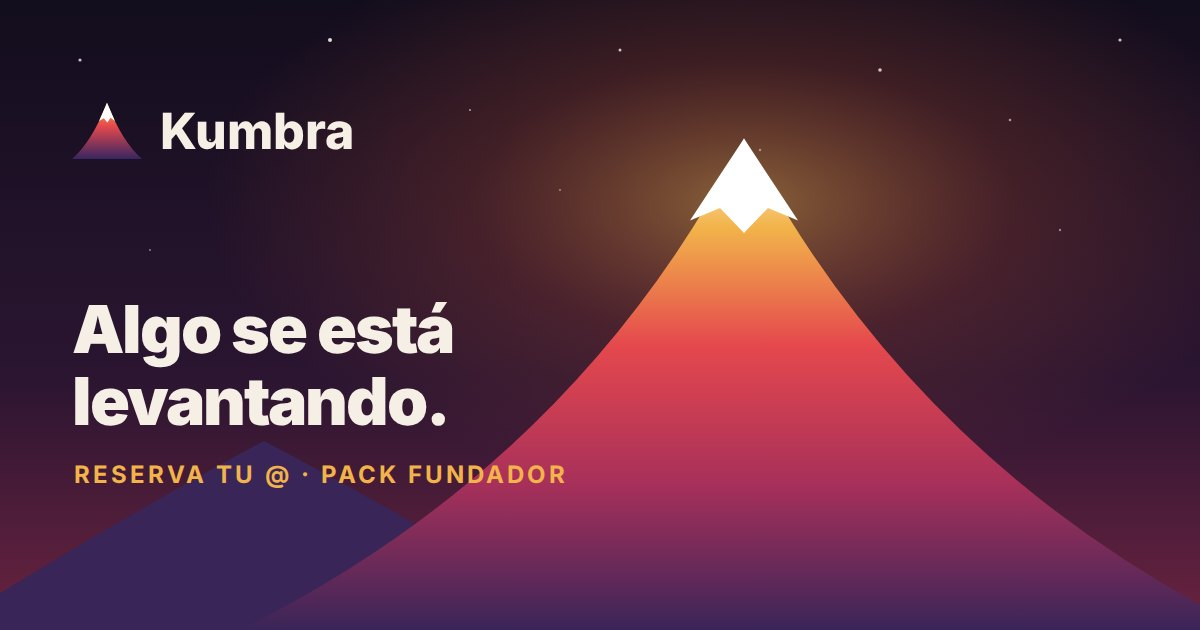
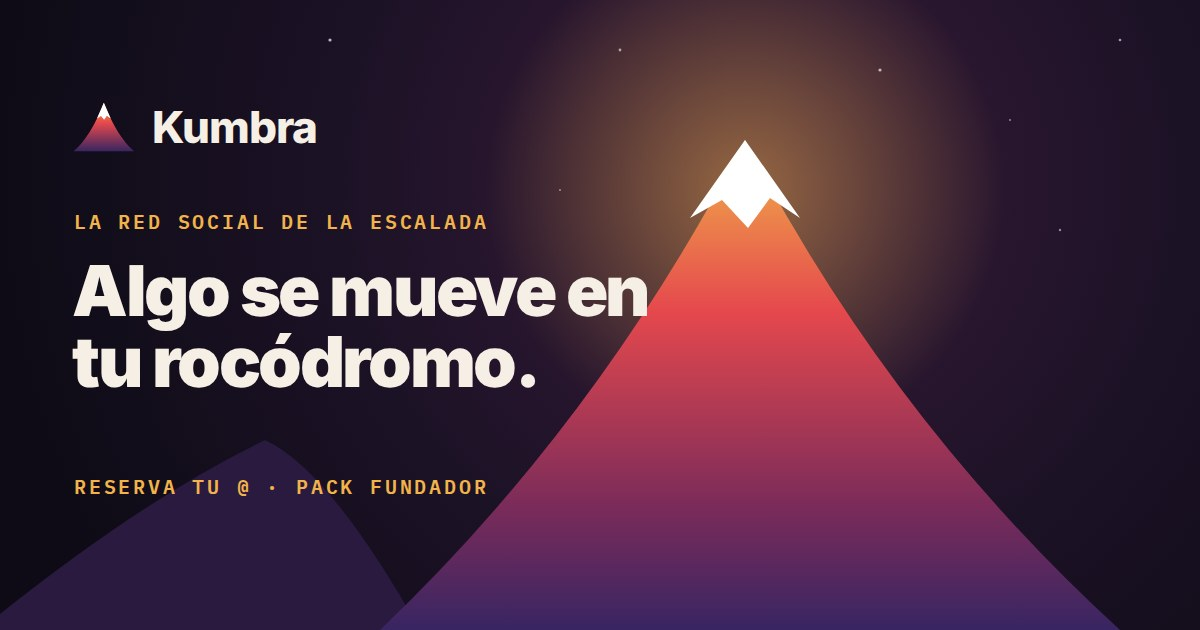
Kumbra: «Algo se mueve en tu rocódromo», pack Fundador compacto y recompensa por invitar
- Cabecera: «La red social de la escalada» y el título «Algo se mueve en tu
  rocódromo.»; frases nuevas que hablan del rocódromo y de los amigos.
  Miniatura para compartir (og.jpg) y metadatos al día.
- Al reservar, el título se queda arriba en pequeño en vez de desaparecer.
- Pack Fundador más corto: perfil con @, insignia y fondo Cumbre; «Precio
  Fundador en Pro» y «Entras antes»; el resto en una línea de detalles.
- Trae a 3 amigos: sigue siendo sorpresa, ahora «la recompensa que solo tiene
  quien invita» (la puede conseguir cualquiera que invite, también en la app).
  Email de bienvenida y mensaje de WhatsApp con los mismos textos.

Claude-Session: https://claude.ai/code/session_011Nguy6kvEtjocCLexhxfN6

diff --git a/kumbra/index.html b/kumbra/index.html
@@ -4,15 +4,15 @@
   <meta charset="utf-8">
   <meta name="viewport" content="width=device-width, initial-scale=1, viewport-fit=cover">
   <title>Kumbra</title>
-  <meta name="description" content="Algo se está levantando en la escalada. Reserva tu nombre antes que nadie.">
-  <meta property="og:title" content="Kumbra · Algo se está levantando">
-  <meta property="og:description" content="Una app de escalada. Pronto. Reserva tu @ antes que nadie.">
+  <meta name="description" content="Algo se mueve en tu rocódromo. La red social de la escalada, pronto en Madrid. Reserva tu nombre antes que nadie.">
+  <meta property="og:title" content="Kumbra · Algo se mueve en tu rocódromo">
+  <meta property="og:description" content="La red social de la escalada. Madrid, pronto. Reserva tu @ antes que nadie.">
   <meta property="og:type" content="website">
   <meta property="og:url" content="https://www.axclimb.com/kumbra">
   <meta property="og:image" content="https://www.axclimb.com/kumbra/og.jpg">
   <meta property="og:image:width" content="1200">
   <meta property="og:image:height" content="630">
-  <meta property="og:image:alt" content="Kumbra: una montaña de noche y el texto «Algo se está levantando»">
+  <meta property="og:image:alt" content="Kumbra: una montaña de noche y el texto «Algo se mueve en tu rocódromo»">
   <meta name="twitter:card" content="summary_large_image">
   <link rel="apple-touch-icon" href="/kumbra/apple-touch-icon.png">
   <meta name="theme-color" content="#0E0B16">
@@ -64,11 +64,15 @@ header { display: flex; justify-content: space-between; align-items: center; }
 .logo svg { width: 24px; height: 20px; }
 .mono { font: 500 11px/1.4 var(--mono); letter-spacing: .16em; text-transform: uppercase; color: var(--dim); }
 
-.title { align-self: start; text-align: center; margin-top: 6vh; pointer-events: none !important; transition: opacity .4s; }
+.title { align-self: start; text-align: center; margin-top: 6vh; pointer-events: none !important; transition: opacity .4s, margin .6s; }
+/* After you reserve: the title stays at the top, smaller, so the panel and your light have room. */
+.title.small { margin-top: 1.5vh; }
+.title.small .kicker, .title.small .whisper { display: none; }
+.title.small h1 { font-size: clamp(22px, 6.2vw, 38px); max-width: 22ch; }
 .kicker { display: inline-flex; gap: 10px; align-items: center; }
 .kicker i { width: 6px; height: 6px; border-radius: 50%; background: var(--coral); box-shadow: 0 0 12px var(--coral); animation: blink 2.4s ease-in-out infinite; }
 @keyframes blink { 50% { opacity: .3; } }
-h1 { margin: 14px auto 0; padding-bottom: .08em; max-width: 13ch; font: 900 clamp(40px, 11.5vw, 96px)/1 var(--sans); letter-spacing: -0.045em; text-wrap: balance; }
+h1 { margin: 14px auto 0; padding-bottom: .08em; max-width: 13ch; font: 900 clamp(40px, 11.5vw, 96px)/1 var(--sans); letter-spacing: -0.045em; text-wrap: balance; transition: font-size .6s cubic-bezier(.2,.8,.2,1); }
 h1 span { display: inline-block; padding-bottom: .12em; margin-bottom: -.12em; opacity: 0; transform: translateY(18px); filter: blur(8px); animation: rise 1.1s cubic-bezier(.2,.8,.2,1) forwards; }
 h1.in span { animation: none; opacity: 1; transform: none; filter: none; }
 @keyframes rise { to { opacity: 1; transform: none; filter: none; } }
@@ -190,13 +194,15 @@ body.exploring .title, body.exploring .draghint { opacity: 0 !important; pointer
 .pvmeta { display: block; font-size: 11px; color: var(--dim); }
 .pvmeta b { color: var(--ink); font-weight: 800; }
 .call { position: absolute; z-index: 2; padding: 5px 9px; border-radius: 99px; background: rgba(245,239,230,.92); color: #1A1324; font: 800 11px/1 var(--sans); white-space: nowrap; box-shadow: 0 6px 16px -6px rgba(0,0,0,.6); }
-.perks4 { display: grid; grid-template-columns: repeat(auto-fill, minmax(96px, 1fr)); gap: 8px; }
-.perks4 div { display: grid; justify-items: center; gap: 7px; text-align: center; padding: 12px 4px 10px; border-radius: 16px; background: rgba(245,239,230,.05); box-shadow: inset 0 0 0 1px rgba(245,239,230,.08); }
-.perks4 svg { width: 40px; height: 40px; }
-.perks4 b { font: 800 11.5px/1.15 var(--sans); }
+.perks2 { display: grid; gap: 8px; }
+.perks2 > div { display: grid; grid-template-columns: 40px minmax(0, 1fr); gap: 12px; align-items: center; padding: 10px 12px; border-radius: 16px; background: rgba(245,239,230,.05); box-shadow: inset 0 0 0 1px rgba(245,239,230,.08); text-align: left; }
+.perks2 svg { width: 40px; height: 40px; }
+.perks2 b { display: block; font: 800 14px/1.2 var(--sans); }
+.perks2 small { display: block; color: var(--dim); font-size: 12.5px; margin-top: 2px; }
+.extras { margin: 10px 2px 0; color: var(--dim); font-size: 12.5px; line-height: 1.45; text-align: left; }
 .mystery { display: grid; grid-template-columns: 48px minmax(0, 1fr); gap: 12px; align-items: center; margin-top: 16px; padding: 12px 14px; border-radius: 18px; background: repeating-linear-gradient(135deg, rgba(242,180,74,.08) 0 7px, transparent 7px 14px); box-shadow: inset 0 0 0 1px rgba(242,180,74,.4); text-align: left; }
-.mystery .q { width: 46px; height: 46px; border-radius: 50%; display: grid; place-items: center; font: 900 22px/1 var(--sans); color: var(--amber); box-shadow: inset 0 0 0 2px rgba(242,180,74,.7); animation: qpulse 2.4s ease-in-out infinite; }
 @keyframes qpulse { 50% { box-shadow: inset 0 0 0 2px rgba(242,180,74,.25), 0 0 18px rgba(242,180,74,.35); } }
+.mystery .q { width: 46px; height: 46px; border-radius: 50%; display: grid; place-items: center; font: 900 22px/1 var(--sans); color: var(--amber); box-shadow: inset 0 0 0 2px rgba(242,180,74,.7); animation: qpulse 2.4s ease-in-out infinite; }
 .mystery b { font: 800 14.5px/1.2 var(--sans); }
 .mystery small { display: block; color: var(--dim); font-size: 12.5px; margin-top: 2px; }
 .mystery .progress { margin-top: 8px; }
@@ -228,8 +234,8 @@ body.exploring .title, body.exploring .draghint { opacity: 0 !important; pointer
     </header>
 
     <section class="title">
-      <span class="mono kicker"><i></i>Una app de escalada</span>
-      <h1 id="h1">Algo se está levantando.</h1>
+      <span class="mono kicker"><i></i>La red social de la escalada</span>
+      <h1 id="h1">Algo se mueve en tu rocódromo.</h1>
       <p class="whisper" id="whisper">&nbsp;</p>
     </section>
 
@@ -257,7 +263,7 @@ body.exploring .title, body.exploring .draghint { opacity: 0 !important; pointer
           <div class="share"><code id="share-link"></code><button type="button" id="copy">Copiar</button></div>
           <div class="row2"><a class="wa" id="whatsapp" href="#" target="_blank" rel="noopener">WhatsApp</a><button class="ghost" type="button" id="again">Ver la montaña</button></div>
           <button class="linkish" type="button" data-explore>Busca a tus amigos en la montaña</button>
-          <div class="mystery"><span class="q">?</span><div><b>Trae a 3 amigos con tu enlace</b><small>Y descubre lo que nadie más tendrá.</small><div class="progress"><i></i><i></i><i></i></div></div></div>
+          <div class="mystery"><span class="q">?</span><div><b>Trae a 3 amigos con tu enlace</b><small>Y descubre la recompensa que solo tiene quien invita.</small><div class="progress"><i></i><i></i><i></i></div></div></div>
           <p class="note" id="preview-note" hidden>Vista previa: no se ha enviado nada.</p>
           <button class="minibar" type="button" id="unfold"><span class="badge">▲</span><b id="mini-name">@tú</b><span class="mb-r">Invitar y compartir <svg viewBox="0 0 24 24" width="16" height="16" fill="none" stroke="currentColor" stroke-width="2.4" stroke-linecap="round"><path d="M6 15l6-6 6 6"/></svg></span></button>
         </div>
@@ -285,16 +291,13 @@ body.exploring .title, body.exploring .draghint { opacity: 0 !important; pointer
       <span class="call" style="left:96px;top:120px">Insignia</span>
     </div>
     <div class="group"><span class="mono">Y solo para ti</span>
-      <div class="perks4">
-        <div><svg viewBox="0 0 54 54"><circle cx="27" cy="27" r="22" fill="none" stroke="#F2B44A" stroke-width="3" stroke-dasharray="104 200" stroke-linecap="round" transform="rotate(-90 27 27)"/><path d="M22 18l14 9-14 9z" fill="#F5EFE6"/></svg><b>Entras antes</b></div>
-        <div><svg viewBox="0 0 54 54"><defs><linearGradient id="pk3" x1="0" y1="0" x2="0" y2="1"><stop offset="0" stop-color="#2B1531"/><stop offset="1" stop-color="#0E0B16"/></linearGradient><linearGradient id="pk4" x1="0" y1="0" x2="0" y2="1"><stop offset="0" stop-color="#FFF4E2"/><stop offset=".45" stop-color="#E8622D"/><stop offset="1" stop-color="#382562"/></linearGradient></defs><rect x="4" y="4" width="46" height="46" rx="12" fill="url(#pk3)" stroke="rgba(242,180,74,.6)"/><path d="M10 42 Q21 34 27 13 Q33 34 44 42Z" fill="url(#pk4)"/></svg><b>Icono secreto</b></div>
-        <div><svg viewBox="0 0 54 54"><circle cx="20" cy="27" r="14" fill="#3A2558"/><circle cx="34" cy="27" r="14" fill="#F2734A"/><circle cx="27" cy="16" r="10" fill="#F2B44A"/></svg><b>Paleta Atardecer</b></div>
-        <div><svg viewBox="0 0 54 54"><rect x="3" y="15" width="38" height="24" rx="12" fill="none" stroke="#F5EFE6" stroke-opacity=".6" stroke-width="2"/><text x="22" y="31.5" text-anchor="middle" font-family="Inter,sans-serif" font-weight="900" font-size="11" fill="#F5EFE6">PRO</text><circle cx="41" cy="14" r="11" fill="#F2B44A"/><text x="41" y="18" text-anchor="middle" font-family="Inter,sans-serif" font-weight="900" font-size="11" fill="#3A2108">%</text></svg><b>Descuento en Pro</b></div>
-        <div><svg viewBox="0 0 54 54"><circle cx="27" cy="27" r="22" fill="#E8B53A"/><circle cx="27" cy="27" r="17" fill="none" stroke="#fff" stroke-opacity=".5" stroke-width="1.5"/><path d="M17 34l10-17 10 17z" fill="#3A2108"/></svg><b>Logro Fundador</b></div>
-        <div><svg viewBox="0 0 54 54"><defs><linearGradient id="pk5" x1="0" y1="0" x2="0" y2="1"><stop offset="0" stop-color="#FFC20E"/><stop offset=".38" stop-color="#FF48B0"/><stop offset=".72" stop-color="#3255A4"/><stop offset="1" stop-color="#1B1830"/></linearGradient></defs><circle cx="27" cy="27" r="22" fill="url(#pk5)"/><text x="27" y="32.5" text-anchor="middle" font-family="Inter,sans-serif" font-weight="900" font-size="15" fill="#F4EFE4">K</text></svg><b>Avatares Fundador</b></div>
+      <div class="perks2">
+        <div><svg viewBox="0 0 54 54"><rect x="3" y="15" width="38" height="24" rx="12" fill="none" stroke="#F5EFE6" stroke-opacity=".6" stroke-width="2"/><text x="22" y="31.5" text-anchor="middle" font-family="Inter,sans-serif" font-weight="900" font-size="11" fill="#F5EFE6">PRO</text><circle cx="41" cy="14" r="11" fill="#F2B44A"/><text x="41" y="18" text-anchor="middle" font-family="Inter,sans-serif" font-weight="900" font-size="11" fill="#3A2108">%</text></svg><span><b>Precio Fundador en Pro</b><small>Para siempre, si te suscribes en el lanzamiento.</small></span></div>
+        <div><svg viewBox="0 0 54 54"><circle cx="27" cy="27" r="22" fill="none" stroke="#F2B44A" stroke-width="3" stroke-dasharray="104 200" stroke-linecap="round" transform="rotate(-90 27 27)"/><path d="M22 18l14 9-14 9z" fill="#F5EFE6"/></svg><span><b>Entras antes</b><small>La beta privada, antes que nadie.</small></span></div>
       </div>
+      <p class="extras">Y detalles que solo tendrán los fundadores: icono secreto, paleta Atardecer, avatares y logro Fundador.</p>
     </div>
-    <div class="mystery"><span class="q">?</span><div><b>Trae a 3 amigos</b><small>Y descubre lo que nadie más tendrá.</small></div></div>
+    <div class="mystery"><span class="q">?</span><div><b>Trae a 3 amigos con tu enlace</b><small>Y descubre la recompensa que solo tiene quien invita.</small></div></div>
     <button class="go" type="button" data-pack-close>Reservar mi nombre</button>
   </section>
 
@@ -307,7 +310,7 @@ body.exploring .title, body.exploring .draghint { opacity: 0 !important; pointer
   // ================= Words =================
   var h1 = document.getElementById("h1");
   h1.innerHTML = h1.textContent.split(" ").map(function (w, i) { return '<span style="animation-delay:' + (0.5 + i * 0.16) + 's">' + w + "</span>"; }).join(" ");
-  var WHISPERS = ["Cada bloque que encadenas se pierde. Hasta ahora.", "Tus amigos van a querer verlo.", "No es otra app de entrenamiento.", "Los primeros se quedan con su nombre.", "Lo vas a querer enseñar."];
+  var WHISPERS = ["Mira quién ha escalado hoy en tu rocódromo.", "Cada bloque que encadenas se pierde. Hasta ahora.", "Tus amigos van a querer verlo.", "Reta a tu gente y a ver quién suma más.", "Los primeros se quedan con su nombre."];
   var wEl = document.getElementById("whisper"), wi = 0;
   function whisper() { wEl.classList.add("out"); setTimeout(function () { wEl.textContent = WHISPERS[wi++ % WHISPERS.length]; wEl.classList.remove("out"); }, 600); }
   setTimeout(function () { whisper(); setInterval(whisper, 4200); }, 1700);
@@ -579,14 +582,14 @@ body.exploring .title, body.exploring .draghint { opacity: 0 !important; pointer
     document.getElementById("mini-name").textContent = "@" + v;
     [].forEach.call(document.querySelectorAll(".pvav"), function (e) { e.textContent = v.charAt(0).toUpperCase(); }); [].forEach.call(document.querySelectorAll(".pvname b"), function (e) { e.textContent = "@" + v; });
     document.getElementById("share-link").textContent = link.replace(/^https?:\/\//, "");
-    document.getElementById("whatsapp").href = "https://wa.me/?text=" + encodeURIComponent("Me he apuntado a Kumbra, una app de escalada que está a punto de salir. Si reservas tu nombre con mi enlace entras con el Pack Fundador: " + link);
+    document.getElementById("whatsapp").href = "https://wa.me/?text=" + encodeURIComponent("Me he apuntado a Kumbra, la red social de la escalada, que está a punto de salir. Si reservas tu nombre con mi enlace entras con el Pack Fundador: " + link);
     var copy = document.getElementById("copy");
     copy.onclick = function () {
       var ok = function () { copy.textContent = "Copiado"; setTimeout(function () { copy.textContent = "Copiar"; }, 1800); };
       try { navigator.clipboard.writeText(link).then(ok, selectLink); } catch (e) { selectLink(); }
     };
     document.getElementById("drag-hint").classList.add("gone");
-    var title = document.querySelector(".title"); title.style.transition = "opacity .8s"; title.style.opacity = 0; title.style.pointerEvents = "none";
+    document.querySelector(".title").classList.add("small");
     meName = v;
     if (lit) { lit.go(); loadFounders(v, preview); }
   }

diff --git a/api/kumbraWaitlist.js b/api/kumbraWaitlist.js
@@ -116,11 +116,9 @@ const PACK = [
   ["Tu @, antes que nadie", "Nadie más podrá usarlo."],
   ["Insignia Fundador", "Junto a tu nombre en el feed, tu perfil y el ranking."],
   ["Fondo de perfil «Cumbre»", "La montaña de noche como cabecera de tu perfil."],
-  ["Paleta «Atardecer»", "Los colores de esta noche para toda la app."],
-  ["Icono secreto", "La montaña de noche en tu pantalla de inicio."],
-  ["Logro «Fundador»", "Desbloqueado desde el primer día."],
-  ["Entras antes", "Beta privada antes del lanzamiento."],
-  ["Descuento en Pro", "Precio de fundador si te suscribes en el lanzamiento."],
+  ["Precio Fundador en Pro", "Para siempre, si te suscribes en el lanzamiento."],
+  ["Entras antes", "La beta privada, antes que nadie."],
+  ["Y detalles solo para fundadores", "Icono secreto, paleta Atardecer, avatares y logro Fundador."],
 ];
 
 function welcomeText(username, link) {
@@ -132,7 +130,7 @@ function welcomeText(username, link) {
     `Tu Pack Fundador:`,
     ...PACK.map(([title, detail]) => `- ${title}: ${detail}`),
     ``,
-    `Trae a 3 amigos con tu enlace y desbloquearás algo que nadie más tendrá:`,
+    `Trae a 3 amigos con tu enlace y descubre la recompensa que solo tiene quien invita:`,
     link,
     ``,
     `Si no te has apuntado tú o quieres salir de la lista, responde a este email y te borramos.`,
@@ -144,7 +142,7 @@ function welcomeText(username, link) {
 // Table layout and inline styles: what email clients (Gmail, Outlook, Apple Mail) render reliably.
 function welcomeHtml(username, link) {
   const handle = `@${username}`;
-  const wa = `https://wa.me/?text=${encodeURIComponent(`Me he apuntado a Kumbra, una app de escalada que está a punto de salir. Si reservas tu nombre con mi enlace entras con el Pack Fundador: ${link}`)}`;
+  const wa = `https://wa.me/?text=${encodeURIComponent(`Me he apuntado a Kumbra, la red social de la escalada, que está a punto de salir. Si reservas tu nombre con mi enlace entras con el Pack Fundador: ${link}`)}`;
   const font = "-apple-system,BlinkMacSystemFont,'Segoe UI',Roboto,Helvetica,Arial,sans-serif";
   const rows = PACK.map(([title, detail]) => `
               <tr>
@@ -174,7 +172,7 @@ function welcomeHtml(username, link) {
           <table role="presentation" width="100%" cellpadding="0" cellspacing="0" style="border:1px solid #6B5530;border-radius:18px;">
             <tr><td style="padding:18px;">
               <div class="gs"><div class="gd"><p style="margin:0 0 4px;font:800 16px ${font};color:#F5EFE6;">? &nbsp;Trae a 3 amigos</p>
-              <p style="margin:0 0 14px;font:400 14px/1.5 ${font};color:#C9BFD3;">Si reservan su nombre con tu enlace, desbloquearás algo que nadie más tendrá.</p>
+              <p style="margin:0 0 14px;font:400 14px/1.5 ${font};color:#C9BFD3;">Cuando 3 amigos reserven su nombre con tu enlace y creen su cuenta, desbloquearás la recompensa que solo tiene quien invita.</p>
               <p style="margin:0 0 14px;font:500 13px ${font};color:#F2B44A;word-break:break-all;">${link.replace("https://", "")}</p></div></div>
               <a href="${wa}" style="display:inline-block;padding:12px 18px;border-radius:12px;background-color:#25D366;background-image:linear-gradient(#25D366,#25D366);color:#08210F;font:800 14px ${font};text-decoration:none;">Compartir por WhatsApp</a>
             </td></tr>
